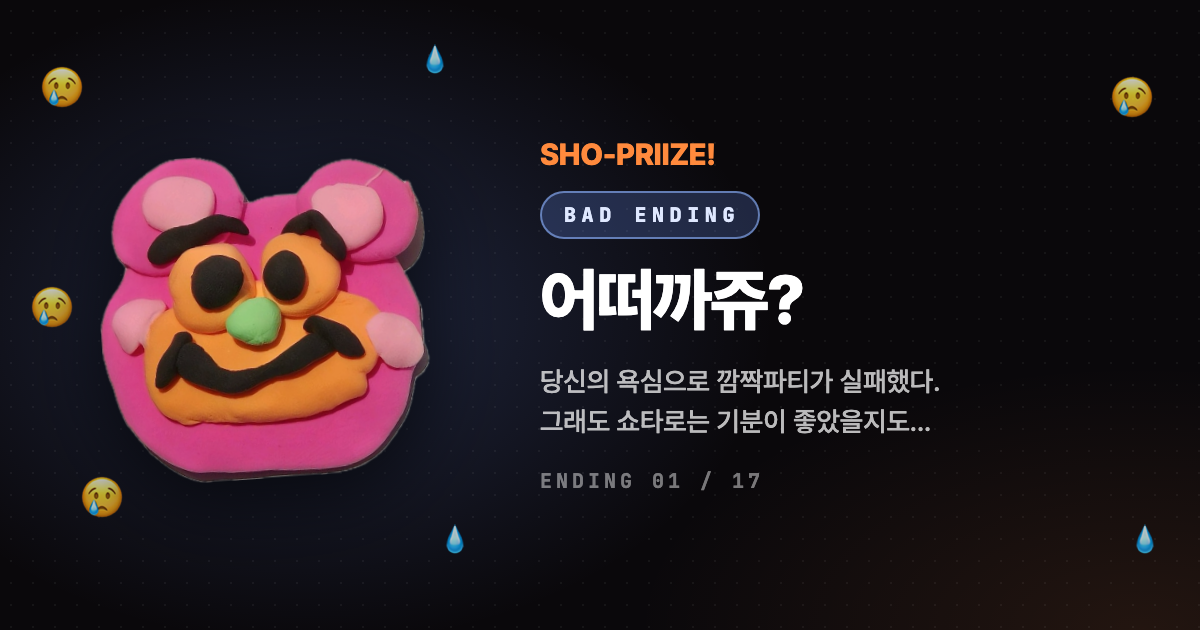
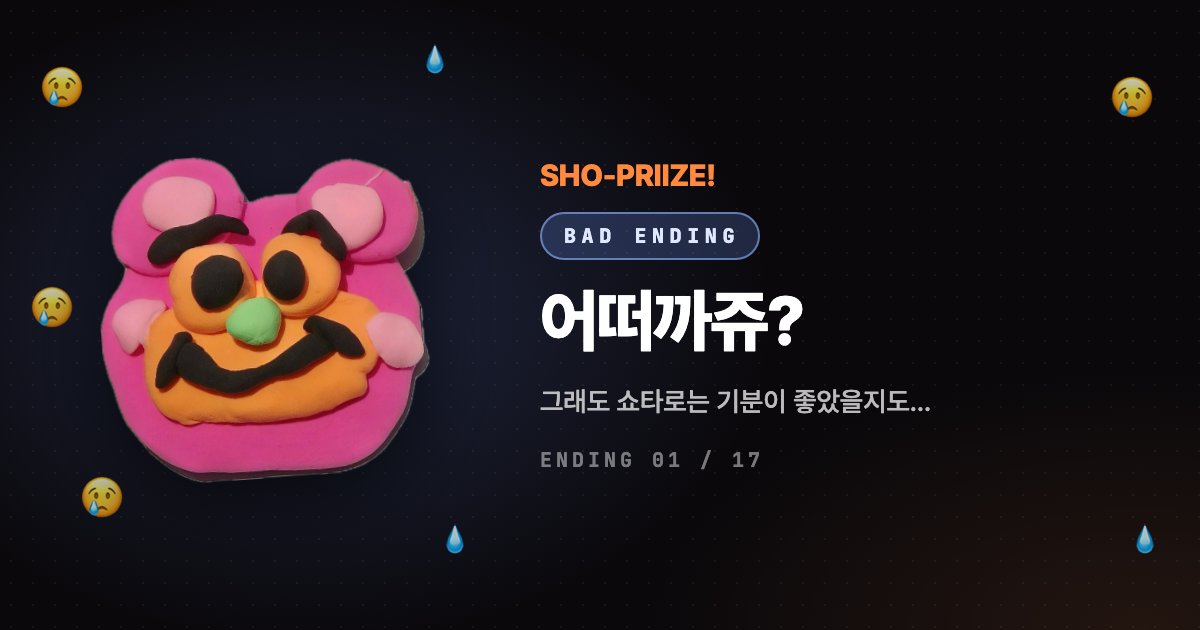
update 2026-11-21 00:27

Changed region(s): [[0.4317, 0.2111, 0.8017, 0.7841]]

diff --git a/e/e_shotaro.html b/e/e_shotaro.html
@@ -1,14 +1,14 @@
 <!doctype html><html lang="ko"><head><meta charset="utf-8">
-<title>SHO-PRIIZE! — BAD ENDING : 힘을 숨긴 쇼타로에게 들킴</title>
+<title>SHO-PRIIZE! — BAD ENDING : 체포하겠어🚨🚓</title>
 <meta name="viewport" content="width=device-width, initial-scale=1">
 <meta property="og:type" content="website">
-<meta property="og:title" content="SHO-PRIIZE! — BAD ENDING : 힘을 숨긴 쇼타로에게 들킴">
-<meta property="og:description" content="쇼타로에게 동생들의 이상 행동은 너무나도 쉬웠다 깜짝파티는 살짝 아쉽게 되었다">
+<meta property="og:title" content="SHO-PRIIZE! — BAD ENDING : 체포하겠어🚨🚓">
+<meta property="og:description" content="쇼타로에게 동생들의 이상 행동은 너무나도 쉬웠다">
 <meta property="og:image" content="https://sho-priize.github.io/media/og/e_shotaro.png">
 <meta property="og:url" content="https://sho-priize.github.io/e/e_shotaro.html">
 <meta name="twitter:card" content="summary_large_image">
-<meta name="twitter:title" content="SHO-PRIIZE! — BAD ENDING : 힘을 숨긴 쇼타로에게 들킴">
-<meta name="twitter:description" content="쇼타로에게 동생들의 이상 행동은 너무나도 쉬웠다 깜짝파티는 살짝 아쉽게 되었다">
+<meta name="twitter:title" content="SHO-PRIIZE! — BAD ENDING : 체포하겠어🚨🚓">
+<meta name="twitter:description" content="쇼타로에게 동생들의 이상 행동은 너무나도 쉬웠다">
 <meta name="twitter:image" content="https://sho-priize.github.io/media/og/e_shotaro.png">
 <meta http-equiv="refresh" content="0; url=../">
 <script>location.replace('../');</script>

diff --git a/e/e_love.html b/e/e_love.html
@@ -3,12 +3,12 @@
 <meta name="viewport" content="width=device-width, initial-scale=1">
 <meta property="og:type" content="website">
 <meta property="og:title" content="SHO-PRIIZE! — BAD ENDING : 어떠까쥬?">
-<meta property="og:description" content="당신의 욕심으로 깜짝파티가 실패했다. 그래도 쇼타로는 기분이 좋았을지도...">
+<meta property="og:description" content="그래도 쇼타로는 기분이 좋았을지도…">
 <meta property="og:image" content="https://sho-priize.github.io/media/og/e_love.png">
 <meta property="og:url" content="https://sho-priize.github.io/e/e_love.html">
 <meta name="twitter:card" content="summary_large_image">
 <meta name="twitter:title" content="SHO-PRIIZE! — BAD ENDING : 어떠까쥬?">
-<meta name="twitter:description" content="당신의 욕심으로 깜짝파티가 실패했다. 그래도 쇼타로는 기분이 좋았을지도...">
+<meta name="twitter:description" content="그래도 쇼타로는 기분이 좋았을지도…">
 <meta name="twitter:image" content="https://sho-priize.github.io/media/og/e_love.png">
 <meta http-equiv="refresh" content="0; url=../">
 <script>location.replace('../');</script>

diff --git a/js/story.js b/js/story.js
@@ -308,7 +308,7 @@ window.STORY = {
       type: 'ending',
       title: '어떠까쥬?',
       route: { thumb: 'media/images/thumbs/e_love.jpg' },
-      desc: '당신의 욕심으로 깜짝파티가 실패했다.\n그래도 쇼타로는 기분이 좋았을지도...',
+      desc: '그래도 쇼타로는 기분이 좋았을지도…',
       bg: ['#4a2a3a', '#0c060a'],
       voice: {
         name: '쇼타로', avatar: 'media/images/voicephoto.jpg',
@@ -319,9 +319,9 @@ window.STORY = {
 
     e_shotaro: {
       type: 'ending',
-      title: '힘을 숨긴 쇼타로에게 들킴',
+      title: '체포하겠어🚨🚓',
       route: { thumb: 'media/images/thumbs/e_shotaro.jpg' },
-      desc: '쇼타로에게 동생들의 이상 행동은 너무나도 쉬웠다\n깜짝파티는 살짝 아쉽게 되었다',
+      desc: '쇼타로에게 동생들의 이상 행동은 너무나도 쉬웠다',
       bg: ['#3a2a4a', '#08060c'],
       voice: {
         name: '쇼타로', avatar: 'media/images/voicephoto.jpg',

diff --git a/index.html b/index.html
@@ -19,8 +19,8 @@
 <link rel="preconnect" href="https://fonts.googleapis.com">
 <link rel="preconnect" href="https://fonts.gstatic.com" crossorigin>
 <link href="https://fonts.googleapis.com/css2?family=JetBrains+Mono:wght@500;700&display=swap" rel="stylesheet">
-<link rel="stylesheet" href="css/style.css?v=1795188269">
-<link rel="stylesheet" href="css/phone.css?v=1795188269">
+<link rel="stylesheet" href="css/style.css?v=1795188442">
+<link rel="stylesheet" href="css/phone.css?v=1795188442">
 </head>
 <body>
 
@@ -69,7 +69,7 @@
   <div id="fade" class="on"></div>
 </main>
 
-<script src="js/story.js?v=1795188269"></script>
-<script src="js/engine.js?v=1795188269"></script>
+<script src="js/story.js?v=1795188442"></script>
+<script src="js/engine.js?v=1795188442"></script>
 </body>
 </html>
